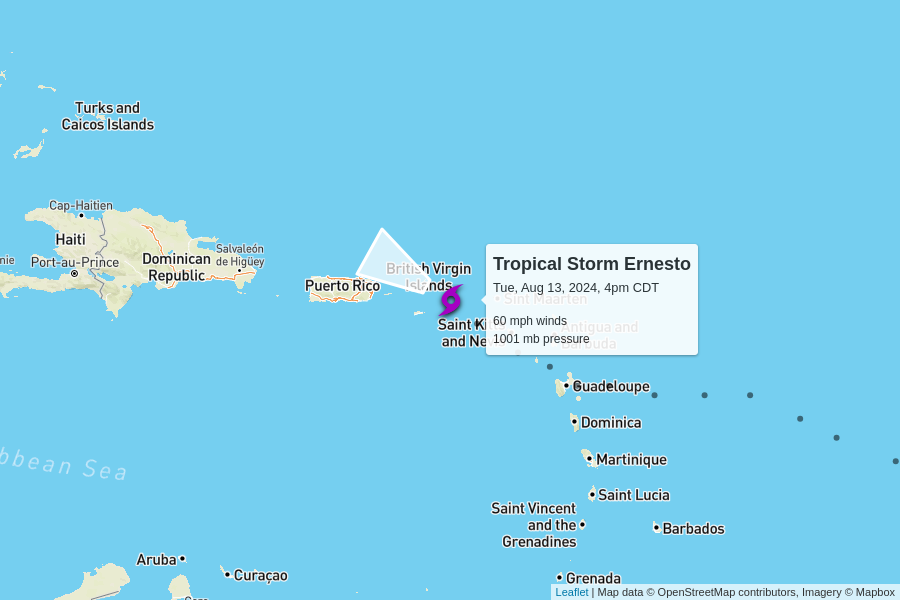
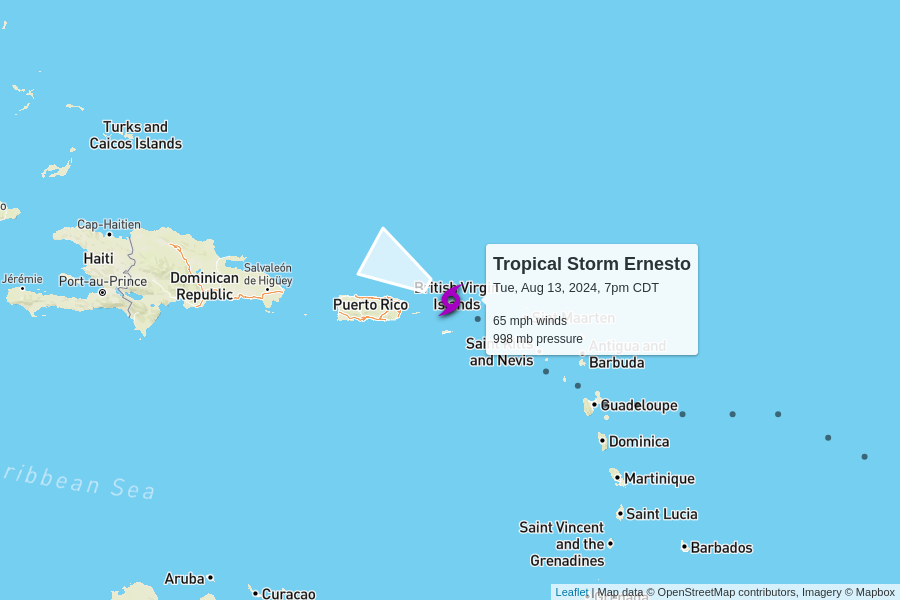
automatic update

diff --git a/docs/index.html b/docs/index.html
@@ -102,7 +102,7 @@
         <td colspan="6" class="storm category-0" >
           <h2>
             Tropical Storm Ernesto
-            <p class="updated">last updated <span data-time>2024-08-13T21:00:00.000Z</span></p>
+            <p class="updated">last updated <span data-time>2024-08-14T00:00:00.000Z</span></p>
           </h2>
         </td>
       </tr>
@@ -117,8 +117,8 @@
       </tr>
       <tr>
         <td class="spacer"></td>
-        <td>60 mph<br>0 mph since last update</td>
-        <td>1001 mb<br>-2 mb since last update</td>
+        <td>65 mph<br>+5 mph since last update</td>
+        <td>998 mb<br>-3 mb since last update</td>
         <td>
           18 mph to the west-northwest
           <br/>
